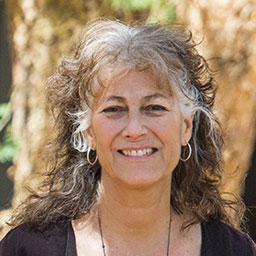
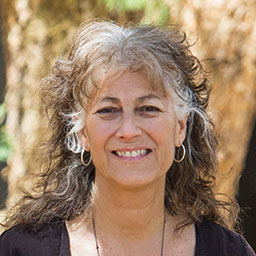
updated staff pages

diff --git a/wp-content/themes/ccf-twentynineteen/template-parts/staff.php b/wp-content/themes/ccf-twentynineteen/template-parts/staff.php
@@ -7,7 +7,7 @@
 
         <div class="row align-items-center my-3">
             <div class="col-4">
-                <img class="rounded-circle" src="https://via.placeholder.com/250x250" alt="Placeholder">
+                <img class="rounded-circle" src="<?php echo get_template_directory_uri(); ?>/images/ccf-staff-laurie-marker.jpg" alt="Placeholder">
             </div>
             <!-- .col -->
             <div class="col-8">
@@ -21,13 +21,13 @@
 
         <div class="row align-items-center my-3">
             <div class="col-4">
-                <img class="rounded-circle" src="https://via.placeholder.com/250x250" alt="Placeholder">
+                <img class="rounded-circle" src="<?php echo get_template_directory_uri(); ?>/images/ccf-staff-bruce-brewer.jpg" alt="Placeholder">
             </div>
             <!-- .col -->
             <div class="col-8">
                 <h3 class="h5 mb-0">Bruce Brewer, PhD</h3>
                 <p class="mb-0"><em>General Manager</em></p>
-                <p>1998 – Present (Bruce also runs the CCF Bushblok project)</p>
+                <p>(Bruce also runs the CCF Bushblok project)</p>
             </div>
             <!-- .col -->
         </div>
@@ -35,7 +35,7 @@
 
         <div class="row align-items-center my-3">
             <div class="col-4">
-                <img class="rounded-circle" src="https://via.placeholder.com/250x250" alt="Placeholder">
+                <img class="rounded-circle" src="<?php echo get_template_directory_uri(); ?>/images/ccf-staff-anne-schmidt-kuntzel.jpg" alt="Placeholder">
             </div>
             <!-- .col -->
             <div class="col-8">

diff --git a/wp-content/themes/ccf-twentynineteen/template-parts/sidebar-who-we-are.php b/wp-content/themes/ccf-twentynineteen/template-parts/sidebar-who-we-are.php
@@ -25,10 +25,10 @@
                     <a href="/about-us/who-we-are/our-centre/">Our Centre</a>
                 </li>
                 <li class="page_item <?php if ( is_page( 'staff' ) || $parent_title == 'Staff' ) : ?>current_page_item<?php endif; ?>">
-                    <a href="#">Staff</a>
+                    <a href="/about/who-we-are/staff">Staff</a>
                 </li>
                 <li class="page_item <?php if ( is_page( 'governance' ) || $parent_title == 'Governance' ) : ?>current_page_item<?php endif; ?>">
-                    <a href="#">Governance</a>
+                    <a href="/about/who-we-are/governance">Governance</a>
                 </li>
                 <li class="page_item <?php if ( is_page( 'ccf-global' ) || $parent_title == 'CCF Global' ) : ?>current_page_item<?php endif; ?>">
                     <a href="/about-us/who-we-are/ccf-global/">CCF Global</a>
